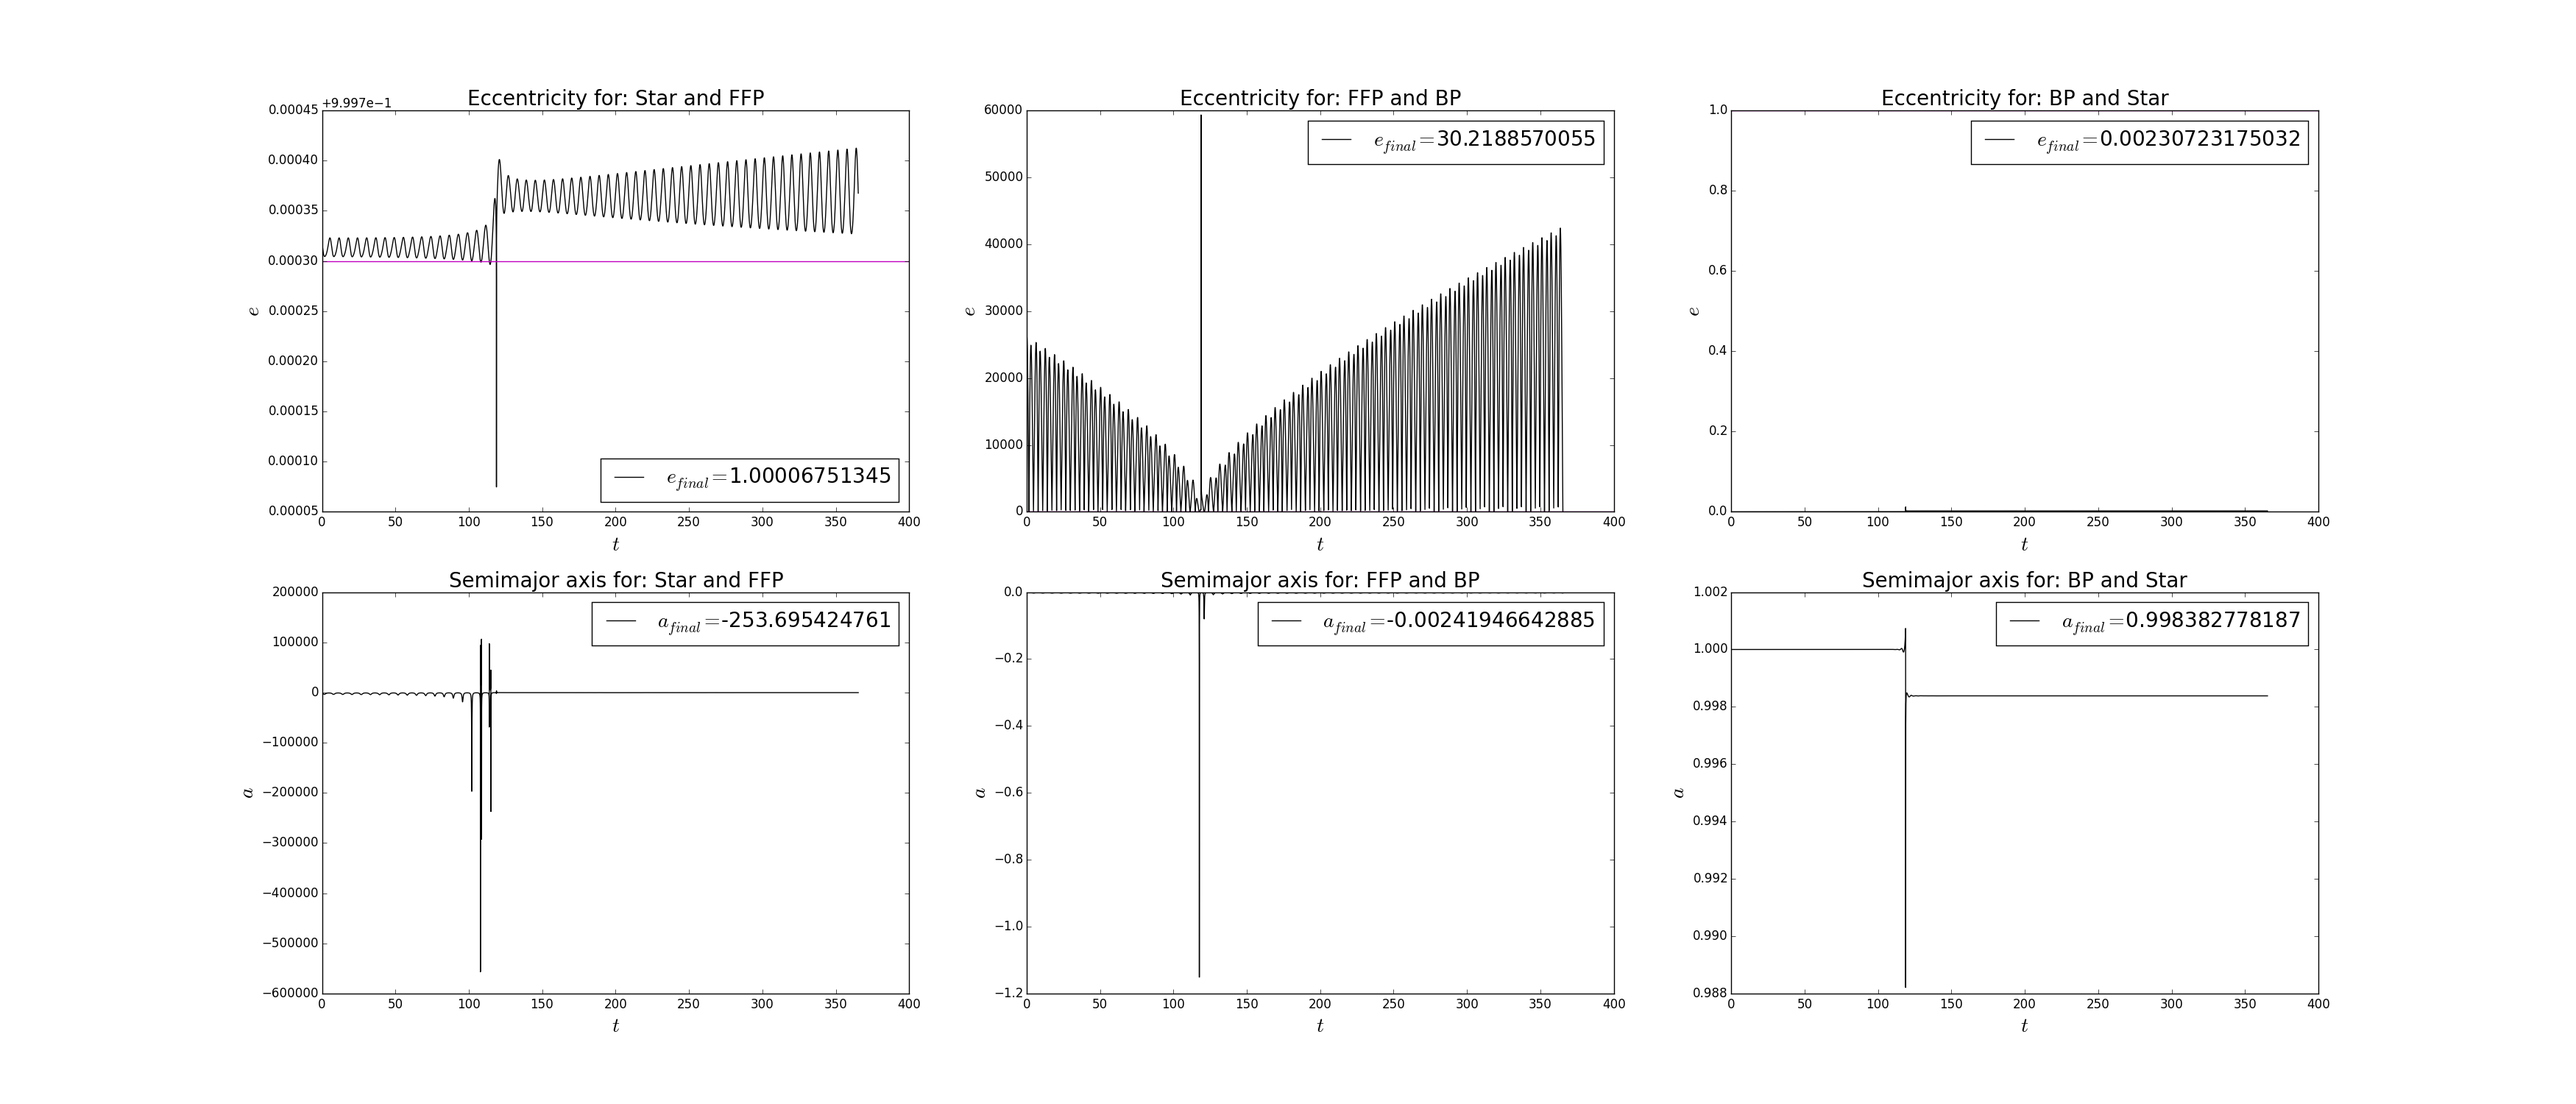
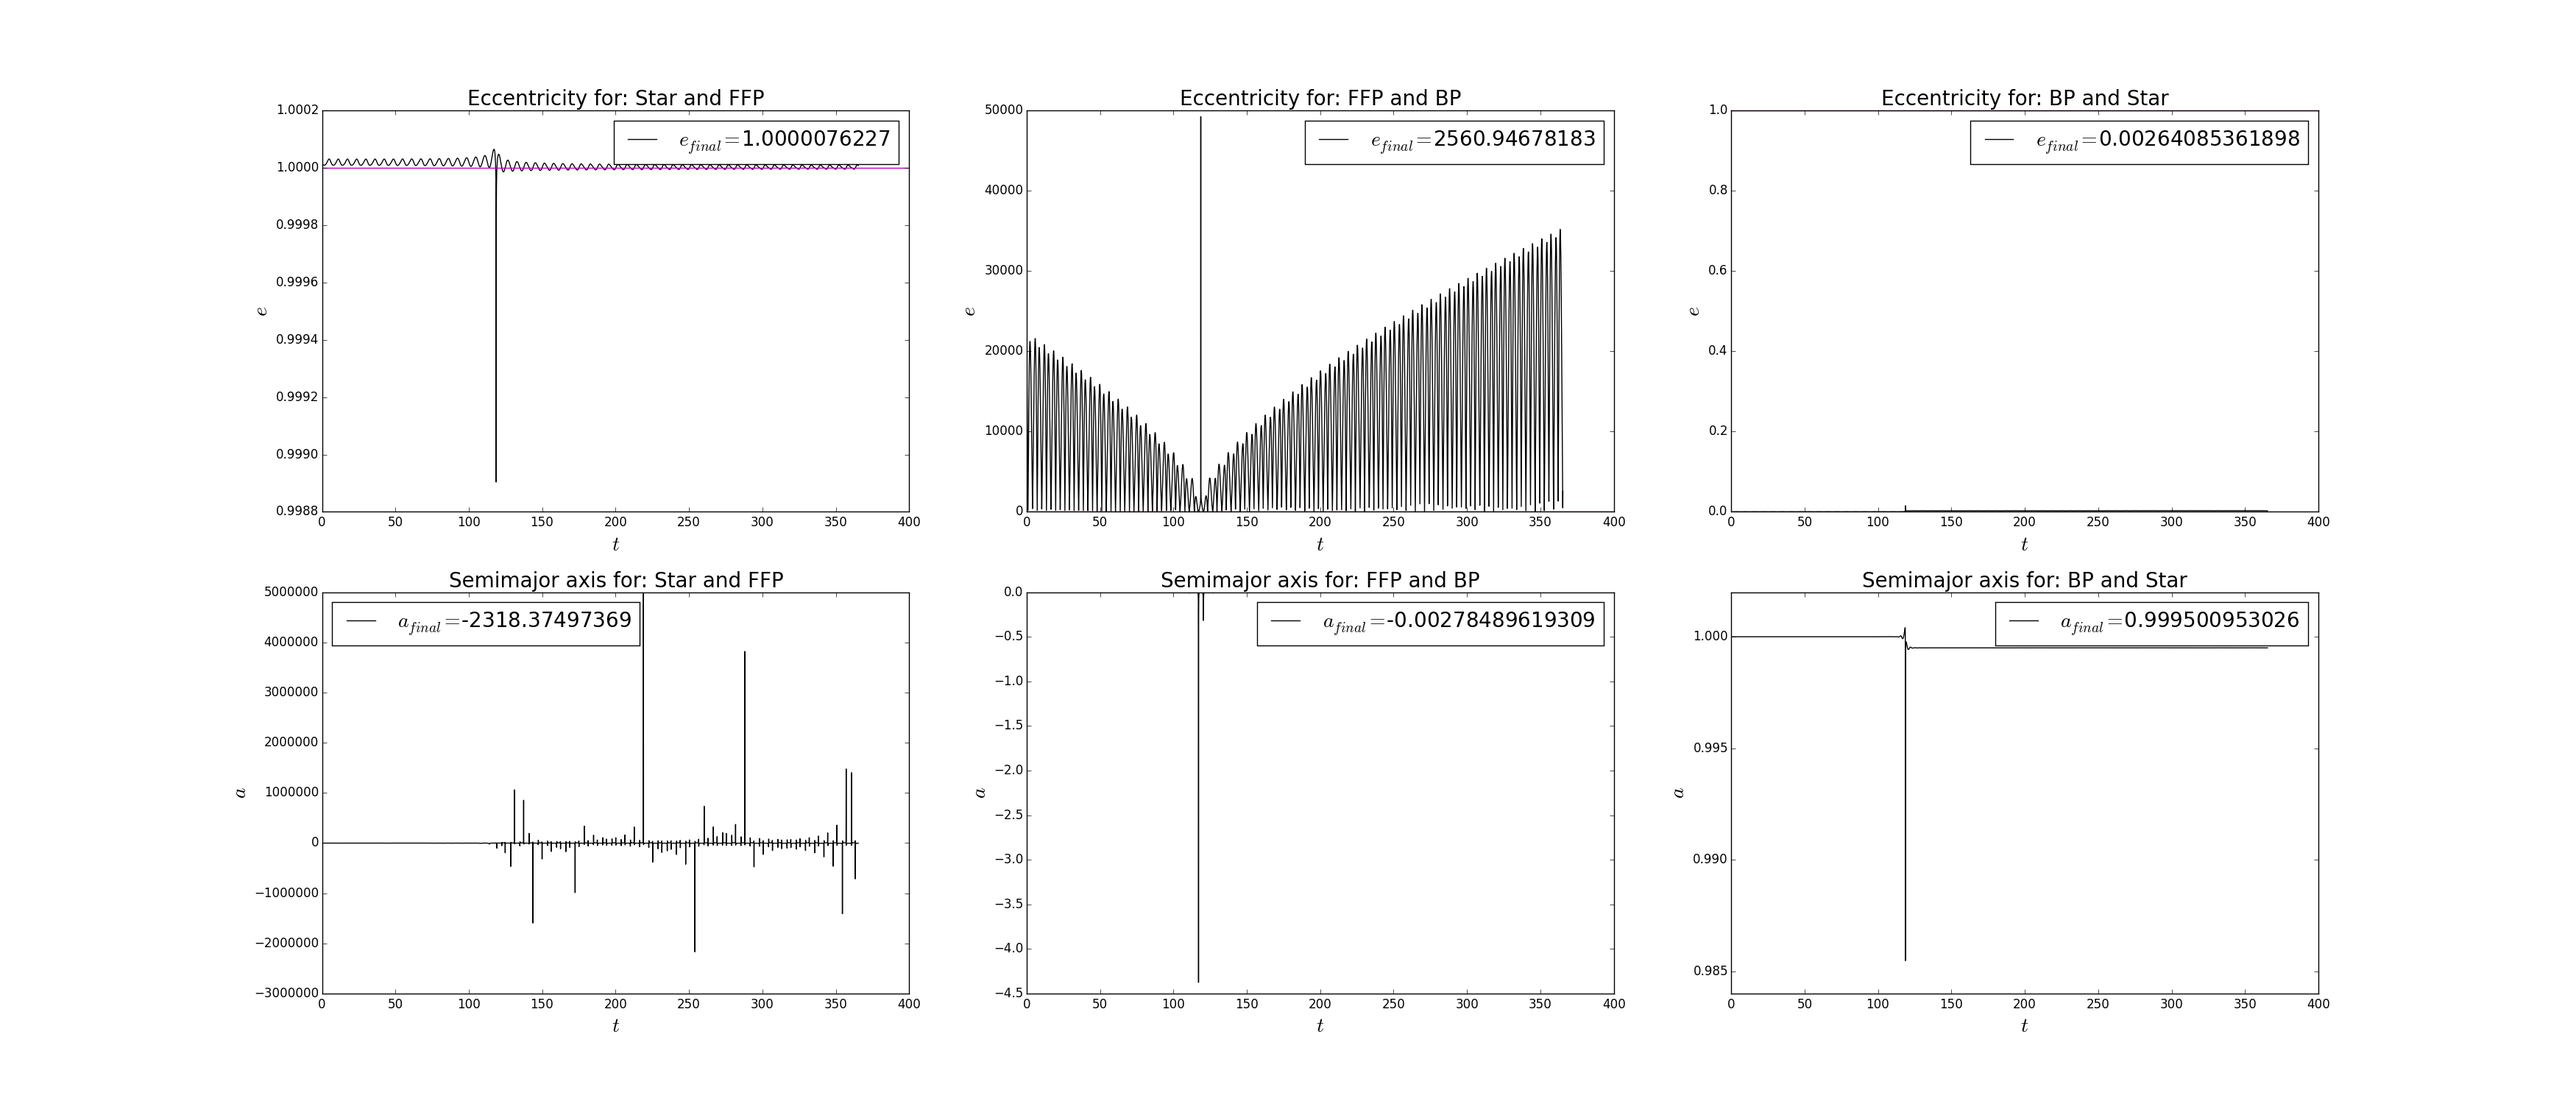
With the wanted parameters, units and features (energies, orbital elements). Ready to change model to smalln instead of huayno

diff --git a/capture_ffp/capture_ffp.py b/capture_ffp/capture_ffp.py
@@ -35,7 +35,8 @@ def initialize_code(bodies, code=Huayno, timestep_parameter=0.0169):
 def get_planets(m0,
                 a_planets,
                 m_planets,
-                e_planets):
+                e_planets,
+                phi=0.):
 
     # particle set with all planets
     planets = Particles()
@@ -46,7 +47,7 @@ def get_planets(m0,
                                                        m_planets[i],
                                                        a_planets[i],
                                                        e_planets[i],
-                                                       true_anomaly=0.)
+                                                       true_anomaly=phi)
         # center on the star
         star_planet.position -= star_planet[0].position
         star_planet.velocity -= star_planet[0].velocity
@@ -230,12 +231,16 @@ def plot_trayectory(x,y):
 
     plot(x1,y1,'y',label='Star')
     plot(x2,y2,'c',label='FFP')
-    plot(x3,y3,'m',label='BP')
+    plot(x3,y3,'m',label='BP',alpha=0.5)
 
     title('Trajectory FFP (nbody units)')
     xlabel("$x$", fontsize=20)
     ylabel("$y$", fontsize=20)
     legend()
+
+    scatter(x1[0],y1[0],c='black',marker='*')
+    scatter(x2[0],y2[0],c='black')
+    scatter(x3[0],y3[0],c='black')
 
     scatter(x1[-1],y1[-1],c='y',marker='*')
     scatter(x2[-1],y2[-1],c='c')
@@ -246,7 +251,7 @@ def plot_trayectory(x,y):
 
     savefig('trajectory.png')
 
-    xlim(-1.5,1.1)
+    xlim(-3,1.1)
     ylim(-1,1)
 
     savefig('trajectory_zoom.png')
@@ -293,6 +298,9 @@ def plot_orbital_elements(times,eccentricities,semimajoraxes):
 
 def new_option_parser():
     result = argparse.ArgumentParser()
+    result.add_argument("--phi",
+                      dest="phi", default = 0., type=float, action="store",
+                      help="initial angle for of the bounded planet [%default]")
     result.add_argument("--fout",
                       dest="fout",  default="capture_ffp.hdf5", type=str, action="store",
                       help="output file [data.hdf5]")
@@ -306,7 +314,7 @@ def new_option_parser():
                       dest="vinf", default = 3.0, type=float, action="store",
                       help="velocity of the FFP at a large distance (infinity) in km/s [%default]")
     result.add_argument("--m_ffp",
-                      dest="m_ffp", default = 0.7, type=float, action="store",
+                      dest="m_ffp", default = 1.0, type=float, action="store",
                       help="mass of the FFP MJupiter [%default]")
     result.add_argument("--n_steps",
                       dest="n_steps", default = 10, type=int, action="store",
@@ -324,12 +332,14 @@ if __name__ in ('__main__', '__plot__'):
     a_planets = [converter.to_nbody(5. | units.AU)]
     m_planets = [converter.to_nbody(1. | units.MJupiter)]
     e_planets = [0.]  # circular orbit
+    phi = arg.phi
 
     # initialize planets
     planets = get_planets(converter.to_nbody(arg.m0 | units.MSun),
                           a_planets,
                           m_planets,
-                          e_planets)
+                          e_planets,
+                          phi)
 
     m0_units = converter.to_nbody(arg.m0 | units.MSun)
     b_units = converter.to_nbody(arg.b | units.AU)
@@ -377,7 +387,7 @@ if __name__ in ('__main__', '__plot__'):
 
 ##### TO DO:
 
-# * create parameter phi for the planet in orbit -- so i can try with the values of b and phi stated in the paper
+# * create parameter phi for the planet in orbit -- so i can try with the values of b and phi stated in the paper (what are the units of phi in the plot? radians?)
 # * fix the units of the output (i think some of them are still in nbody, not physical ones)
 
 
